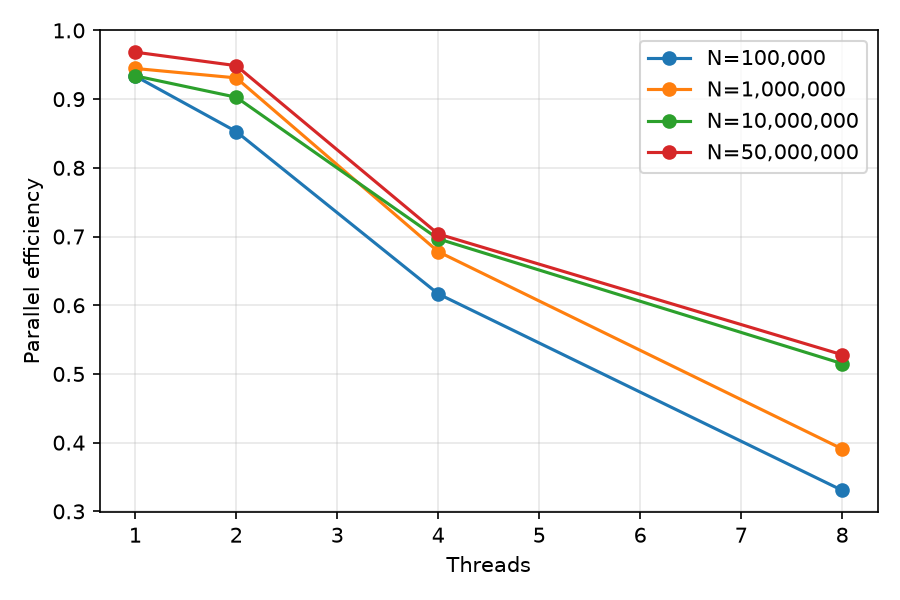
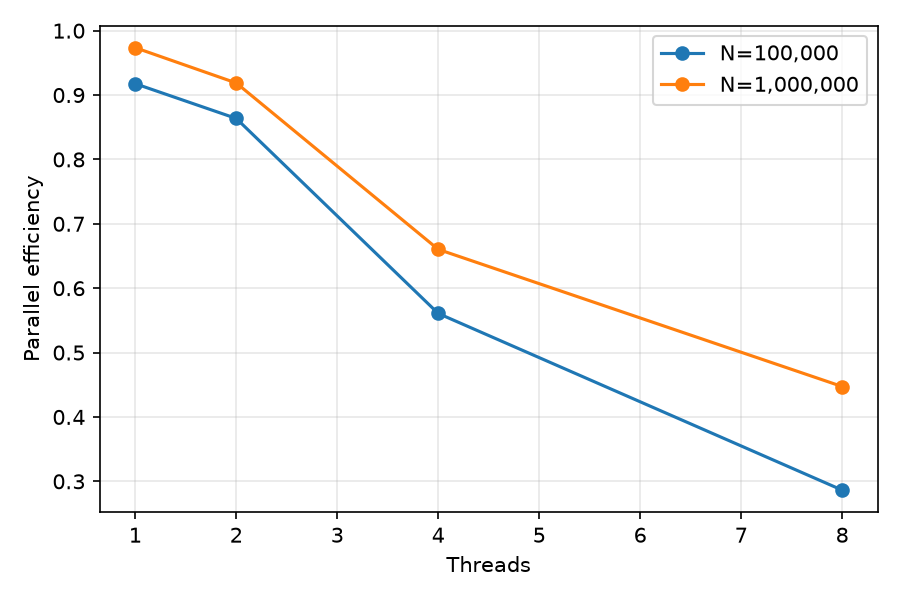
fix: add input validation and error handling to analysis and benchmark tools

diff --git a/credit_risk_omp.cpp b/credit_risk_omp.cpp
@@ -6,17 +6,52 @@
 //    (no sharing inside the loop => no races, no false sharing on hot data)
 //  - private results are merged once per thread in a critical section
 //    (only T merges in total, so the serial part is tiny)
+#include <cerrno>
+#include <climits>
 #include <omp.h>
 #include <cstdio>
 #include <cstdlib>
 #include "risk.h"
 
 int main(int argc, char **argv) {
-    if (argc < 3) { fprintf(stderr, "usage: %s N threads [seed]\n", argv[0]); return 1; }
-    const long long N    = strtoll(argv[1], nullptr, 10);
-    const int threads    = atoi(argv[2]);
-    const uint64_t seed  = argc > 3 ? strtoull(argv[3], nullptr, 10) : 42;
-    const size_t K       = 10;
+    if (argc < 3) {
+        fprintf(stderr, "Usage: %s <N> <threads> [seed]\n", argv[0]);
+        return 1;
+    }
+
+    char *endptr = nullptr;
+
+    // Validate N
+    errno = 0;
+    long long N_val = strtoll(argv[1], &endptr, 10);
+    if (errno != 0 || *endptr != '\0' || N_val <= 0) {
+        fprintf(stderr, "Error: invalid number of records N '%s'. N must be a positive integer (> 0).\n", argv[1]);
+        return 1;
+    }
+    const long long N = N_val;
+
+    // Validate threads
+    errno = 0;
+    long threads_val = strtol(argv[2], &endptr, 10);
+    if (errno != 0 || *endptr != '\0' || threads_val <= 0 || threads_val > 1024) {
+        fprintf(stderr, "Error: invalid number of threads '%s'. Threads must be a positive integer (> 0).\n", argv[2]);
+        return 1;
+    }
+    const int threads = static_cast<int>(threads_val);
+
+    // Validate seed (optional, defaults to 42)
+    uint64_t seed = 42;
+    if (argc > 3) {
+        errno = 0;
+        unsigned long long s_val = strtoull(argv[3], &endptr, 10);
+        if (errno != 0 || *endptr != '\0') {
+            fprintf(stderr, "Error: invalid seed '%s'. Seed must be a valid non-negative integer.\n", argv[3]);
+            return 1;
+        }
+        seed = s_val;
+    }
+
+    const size_t K = 10;
     omp_set_num_threads(threads);
 
     // Phase 1: generation. Customer i depends only on (seed, i) => parallel-safe.

diff --git a/compare.py b/compare.py
@@ -7,8 +7,15 @@ parallel sum adds floating-point numbers in a different order."""
 import subprocess, sys
 
 def run(cmd):
-    out = subprocess.run(cmd, capture_output=True, text=True, check=True).stdout
-    return [l for l in out.splitlines() if l.startswith("RESULT")]
+    try:
+        out = subprocess.run(cmd, capture_output=True, text=True, check=True).stdout
+        return [l for l in out.splitlines() if l.startswith("RESULT")]
+    except subprocess.CalledProcessError as e:
+        if e.stderr:
+            sys.stderr.write(e.stderr)
+        else:
+            sys.stderr.write(f"Error executing command: {' '.join(cmd)}\n")
+        sys.exit(e.returncode)
 
 def kv(line):
     return dict(p.split("=") for p in line.split()[1:] if "=" in p)
@@ -16,6 +23,24 @@ def kv(line):
 def main():
     N = sys.argv[1] if len(sys.argv) > 1 else "1000000"
     threads = sys.argv[2:] or ["1", "2", "4", "8"]
+
+    try:
+        if int(N) <= 0:
+            sys.stderr.write(f"Error: invalid number of records N '{N}'. N must be a positive integer (> 0).\n")
+            sys.exit(1)
+    except ValueError:
+        sys.stderr.write(f"Error: invalid number of records N '{N}'. N must be a positive integer (> 0).\n")
+        sys.exit(1)
+
+    for t in threads:
+        try:
+            if int(t) <= 0:
+                sys.stderr.write(f"Error: invalid number of threads '{t}'. Threads must be a positive integer (> 0).\n")
+                sys.exit(1)
+        except ValueError:
+            sys.stderr.write(f"Error: invalid number of threads '{t}'. Threads must be a positive integer (> 0).\n")
+            sys.exit(1)
+
     ref = run(["./credit_risk_seq", N])
     ok_all = True
     for t in threads:

diff --git a/credit_risk_seq.cpp b/credit_risk_seq.cpp
@@ -1,5 +1,6 @@
 // credit_risk_seq.cpp - sequential baseline.
 // Usage: ./credit_risk_seq <num_records> [seed=42] [dump.csv]
+#include <cerrno>
 #include <chrono>
 #include <cstdio>
 #include <cstdlib>
@@ -11,10 +12,35 @@ static double now() {
 }
 
 int main(int argc, char **argv) {
-    if (argc < 2) { fprintf(stderr, "usage: %s N [seed] [dump.csv]\n", argv[0]); return 1; }
-    const uint64_t N    = strtoull(argv[1], nullptr, 10);
-    const uint64_t seed = argc > 2 ? strtoull(argv[2], nullptr, 10) : 42;
-    const size_t   K    = 10;
+    if (argc < 2) {
+        fprintf(stderr, "Usage: %s <N> [seed] [dump.csv]\n", argv[0]);
+        return 1;
+    }
+
+    char *endptr = nullptr;
+
+    // Validate N
+    errno = 0;
+    long long N_val = strtoll(argv[1], &endptr, 10);
+    if (errno != 0 || *endptr != '\0' || N_val <= 0) {
+        fprintf(stderr, "Error: invalid number of records N '%s'. N must be a positive integer (> 0).\n", argv[1]);
+        return 1;
+    }
+    const uint64_t N = static_cast<uint64_t>(N_val);
+
+    // Validate seed (optional, defaults to 42)
+    uint64_t seed = 42;
+    if (argc > 2) {
+        errno = 0;
+        unsigned long long s_val = strtoull(argv[2], &endptr, 10);
+        if (errno != 0 || *endptr != '\0') {
+            fprintf(stderr, "Error: invalid seed '%s'. Seed must be a valid non-negative integer.\n", argv[2]);
+            return 1;
+        }
+        seed = s_val;
+    }
+
+    const size_t K = 10;
 
     // Phase 1: generate data (not part of the timed analysis)
     double t0 = now();

diff --git a/benchmark.py b/benchmark.py
@@ -12,9 +12,23 @@ ap.add_argument("--threads", type=int, nargs="+", default=[1, 2, 4, 8])
 ap.add_argument("--reps", type=int, default=3)
 a = ap.parse_args()
 
+for n in a.sizes:
+    if n <= 0:
+        ap.error(f"--sizes must all be positive integers (> 0), got: {n}")
+for t in a.threads:
+    if t <= 0:
+        ap.error(f"--threads must all be positive integers (> 0), got: {t}")
+if a.reps <= 0:
+    ap.error(f"--reps must be a positive integer (> 0), got: {a.reps}")
+
 def analysis_time(cmd):
-    out = subprocess.run(cmd, capture_output=True, text=True, check=True).stdout
-    return float(re.search(r"analysis_s=([\d.]+)", out).group(1))
+    try:
+        out = subprocess.run(cmd, capture_output=True, text=True, check=True).stdout
+        return float(re.search(r"analysis_s=([\d.]+)", out).group(1))
+    except subprocess.CalledProcessError as e:
+        if e.stderr:
+            sys.stderr.write(e.stderr)
+        raise
 
 def best(cmd):  # best-of-reps reduces noise from other processes
     return min(analysis_time(cmd) for _ in range(a.reps))
